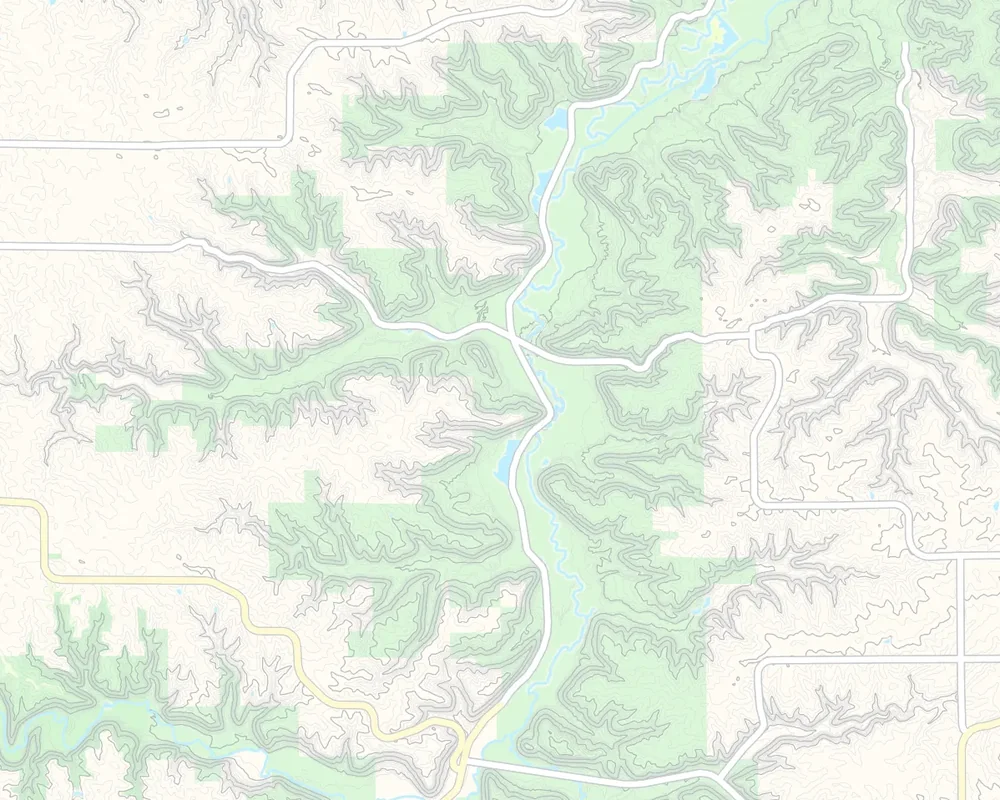
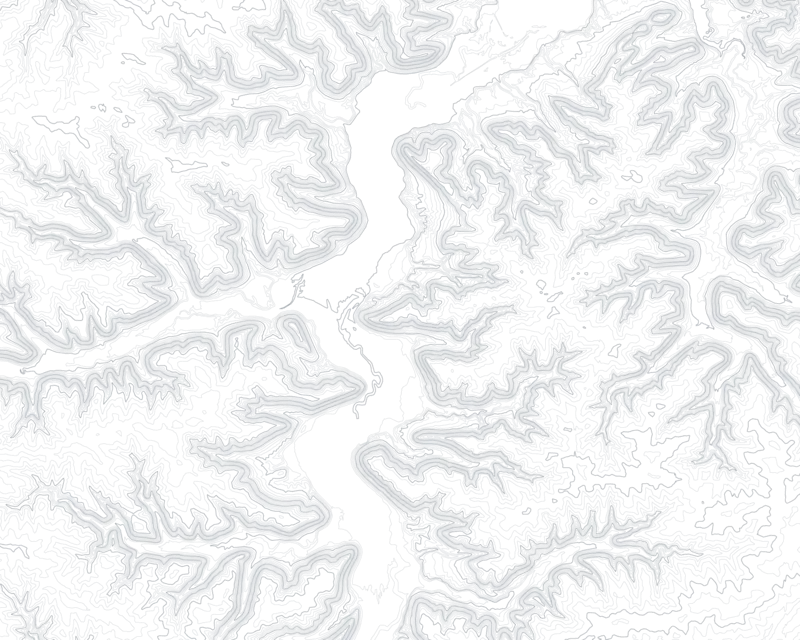
Contour card: a tight crop of the contours alone, transparent on the paper

diff --git a/css/portfolio.css b/css/portfolio.css
@@ -737,13 +737,9 @@ body { overflow-anchor: none; }
    the Dakota letters, the contours and the stack diagram. (.stylenotes in front, to
    win over the general card rules further down) */
 .cards3.stylenotes { margin-top: clamp(56px, 7vw, 104px); }   /* as the relief section's subsections */
-/* no boxes: each picture sits straight on the paper. The letters and the
-   diagram have no panel behind them; the map fades out at its edges */
+/* no boxes: each picture sits straight on the paper (the contours are a
+   transparent image, so the paper shows between the lines) */
 .stylenotes .card-media { border: 0; background: none; }
-.stylenotes .card-contours img {
-  -webkit-mask-image: radial-gradient(ellipse 72% 70% at 50% 50%, #000 55%, transparent 100%);
-          mask-image: radial-gradient(ellipse 72% 70% at 50% 50%, #000 55%, transparent 100%);
-}
 .stylenotes .card-glyphs { display: grid; place-items: center; padding: 6%; }
 /* the letters in the reading serif (its web file has only the accented
    letters the site uses; the rest come from the next serif in --text) */

diff --git a/index.html b/index.html
@@ -262,8 +262,9 @@
           <p>Added support for Dakota language glyphs for Indigenous place names.</p>
         </li>
         <li class="card">
-          <!-- a crop of a Strib-Outdoors export (map-export(1).svg), rendered to WebP -->
-          <div class="card-media card-contours"><img src="img/tiles/strib-contours.webp" width="1000" height="800" alt="Strib-Outdoors map of a river valley in southeastern Minnesota, its ravines drawn in dense elevation contours" loading="lazy" decoding="async"></div>
+          <!-- a tight crop of the Strib-Outdoors contours alone, on transparent
+               (from map-export(1).png), saved as WebP -->
+          <div class="card-media"><img src="img/tiles/strib-contours.webp" width="800" height="640" alt="Elevation contours of a river valley in southeastern Minnesota, its branching ravines drawn in dense grey lines" loading="lazy" decoding="async"></div>
           <p>10-foot elevation contours from MnTopo for the entire state, rendered lightning-fast.</p>
         </li>
         <li class="card">
